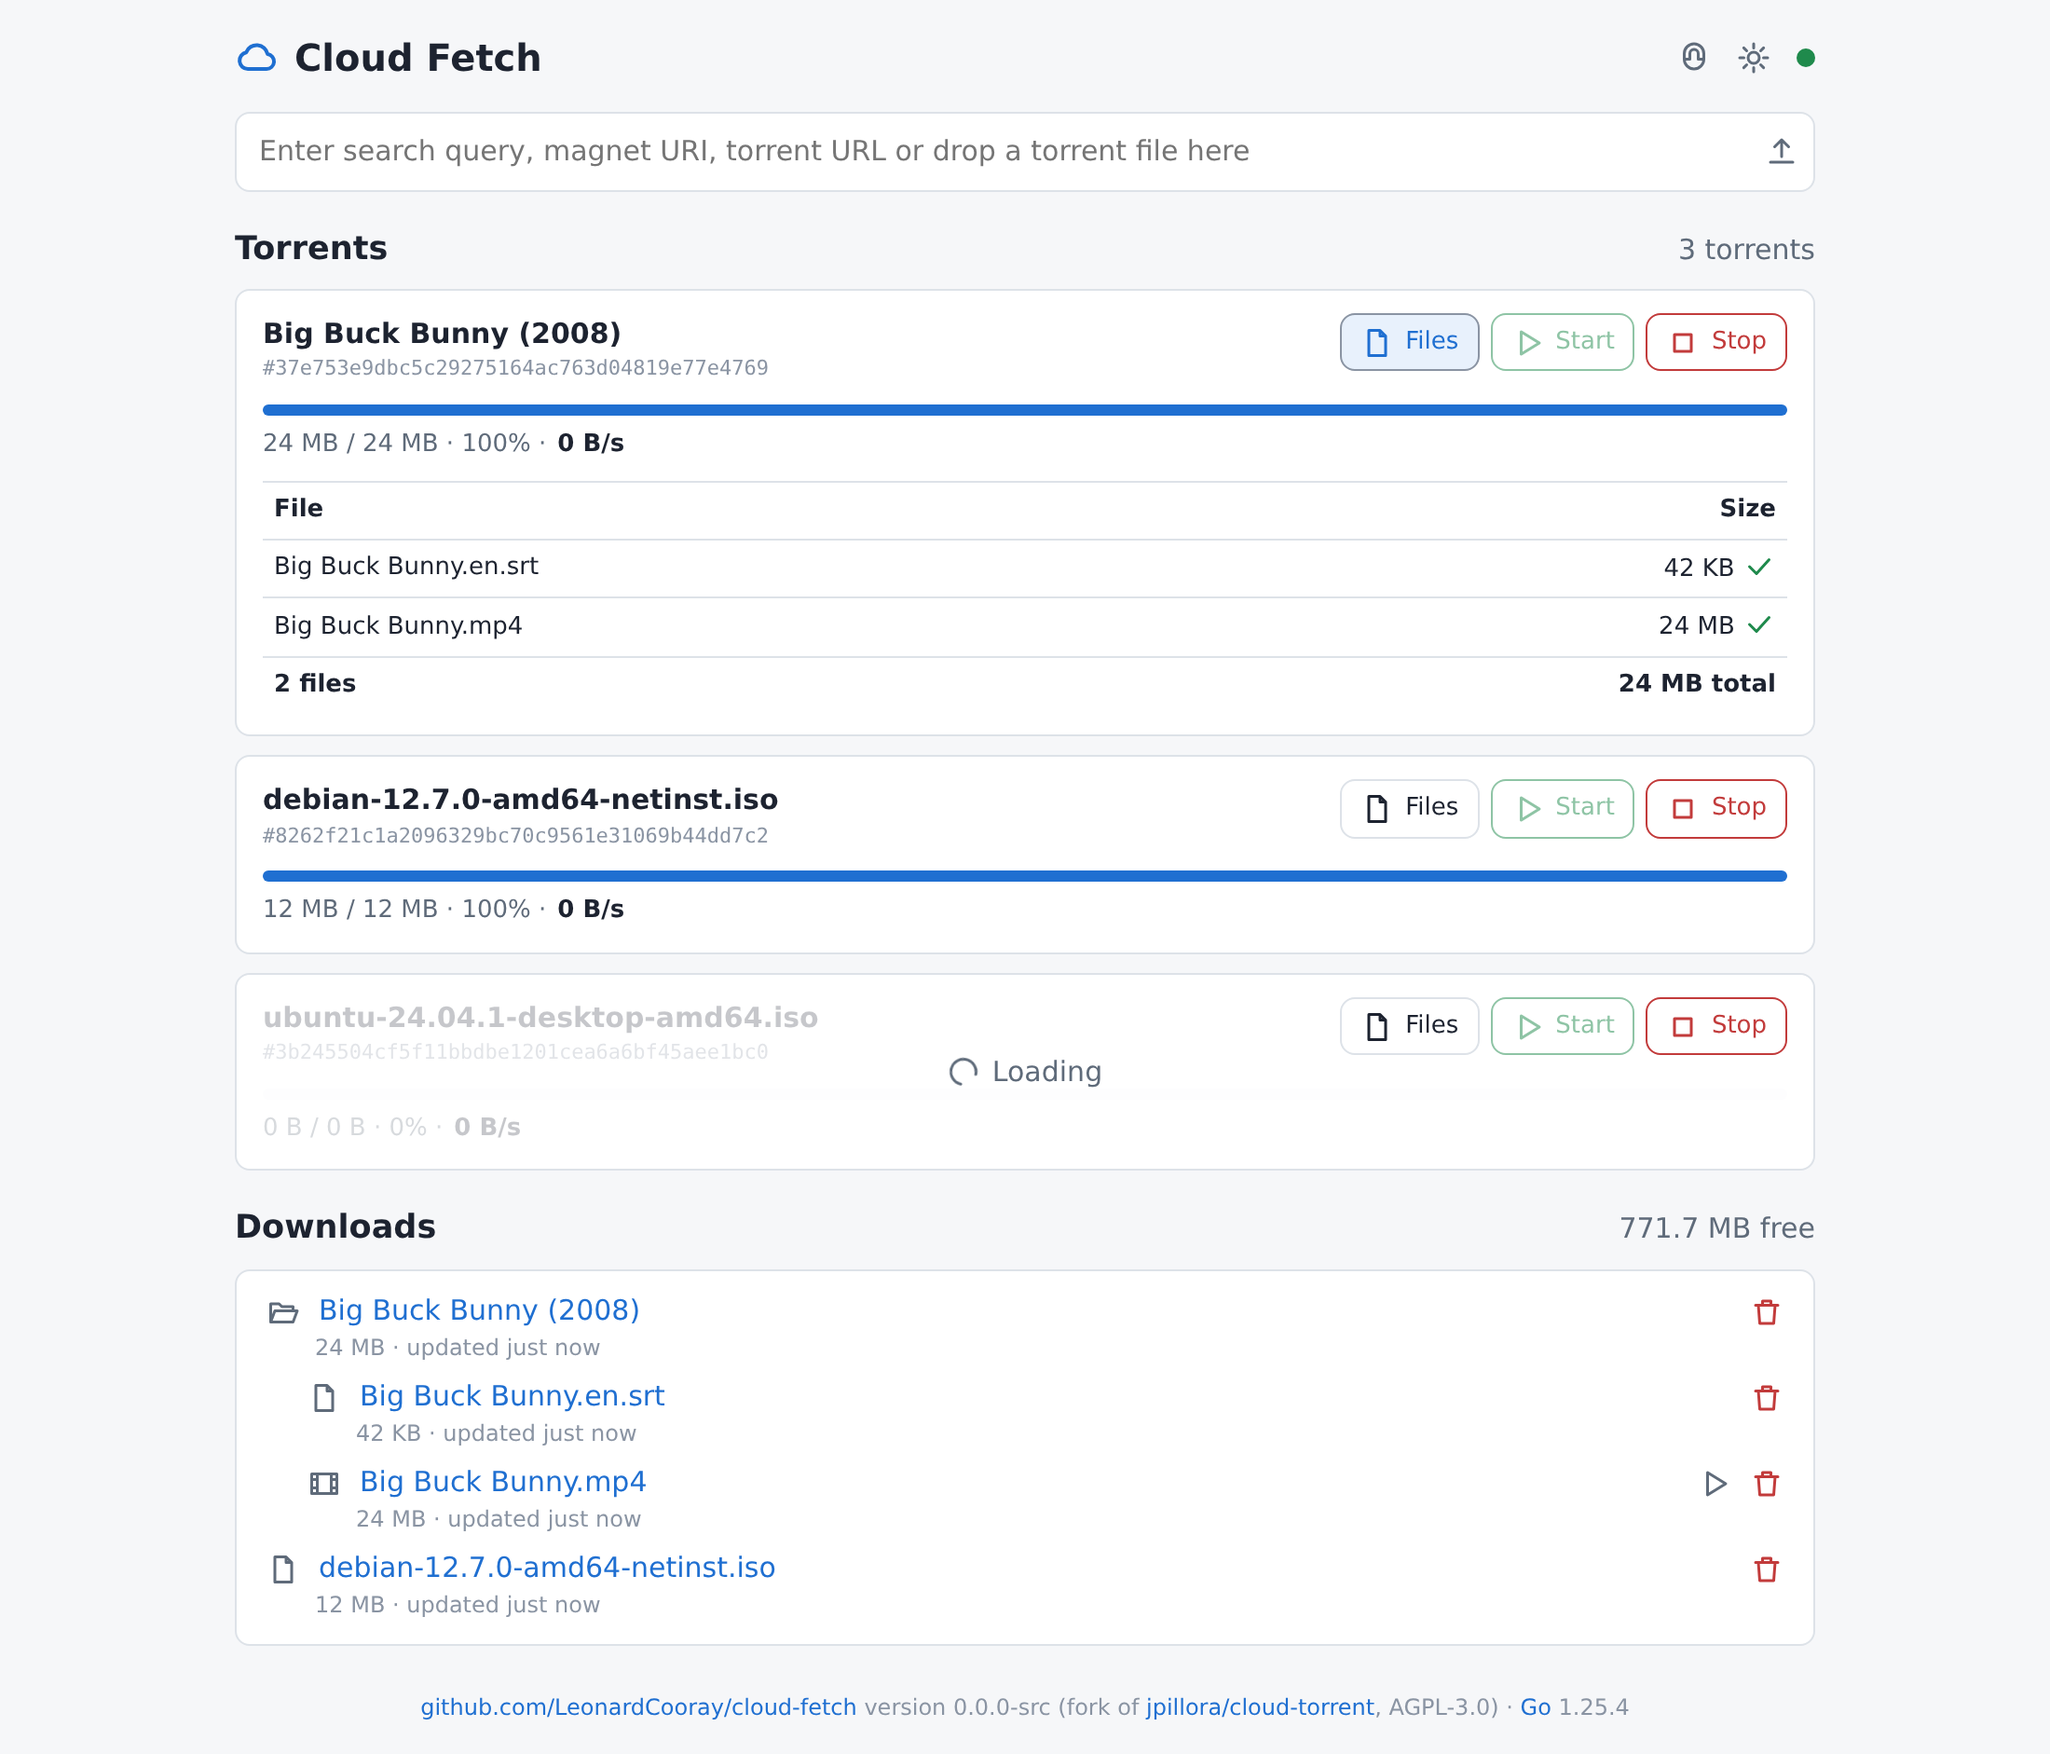
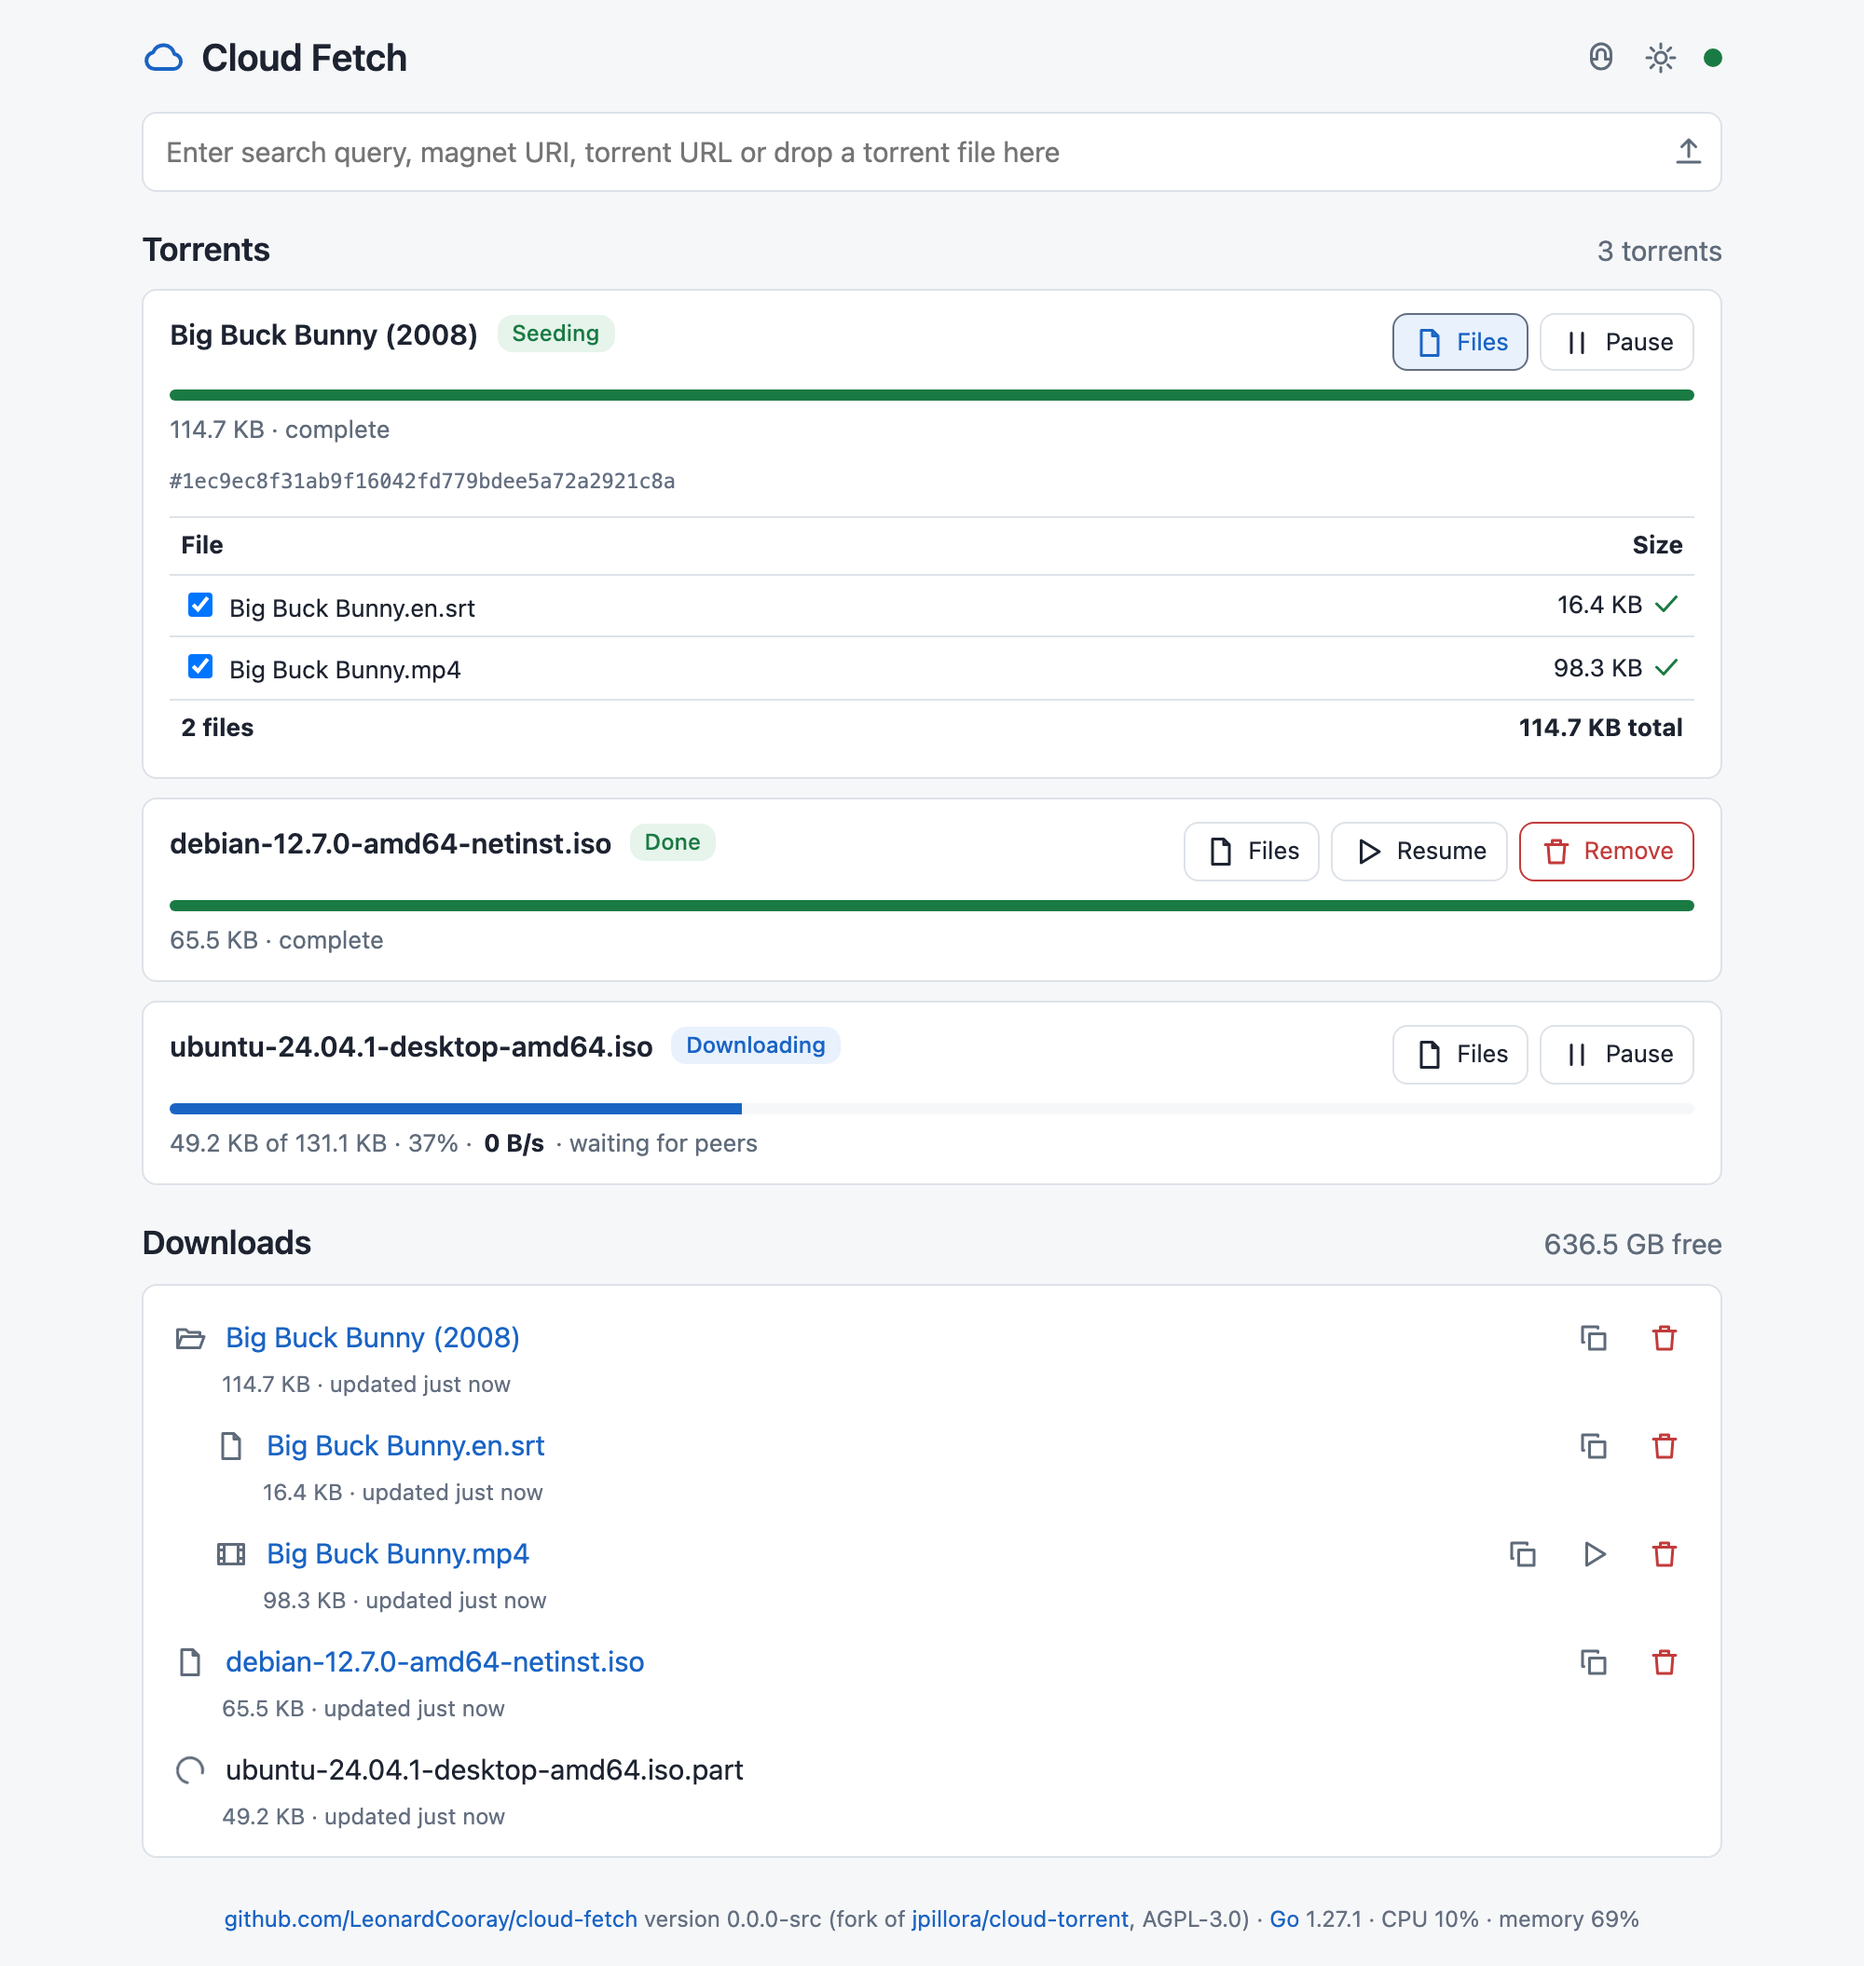
Refresh the README screenshot from an opt-in e2e spec

diff --git a/README.md b/README.md
@@ -1,4 +1,4 @@
-![Cloud Fetch web UI showing two completed torrents, one fetching metadata, and the downloads folder](docs/screenshot.png)
+![Cloud Fetch web UI showing a seeding torrent with its files open, a finished paused torrent, one still downloading, and the downloads folder with copy-link buttons](docs/screenshot.png)
 
 **Cloud Fetch** is a self-hosted remote torrent client written in Go. You add torrents from the browser, they download to the server's disk, and you fetch or stream the files over HTTP(S) with a browser, a download manager such as IDM, or a player such as VLC.
 
